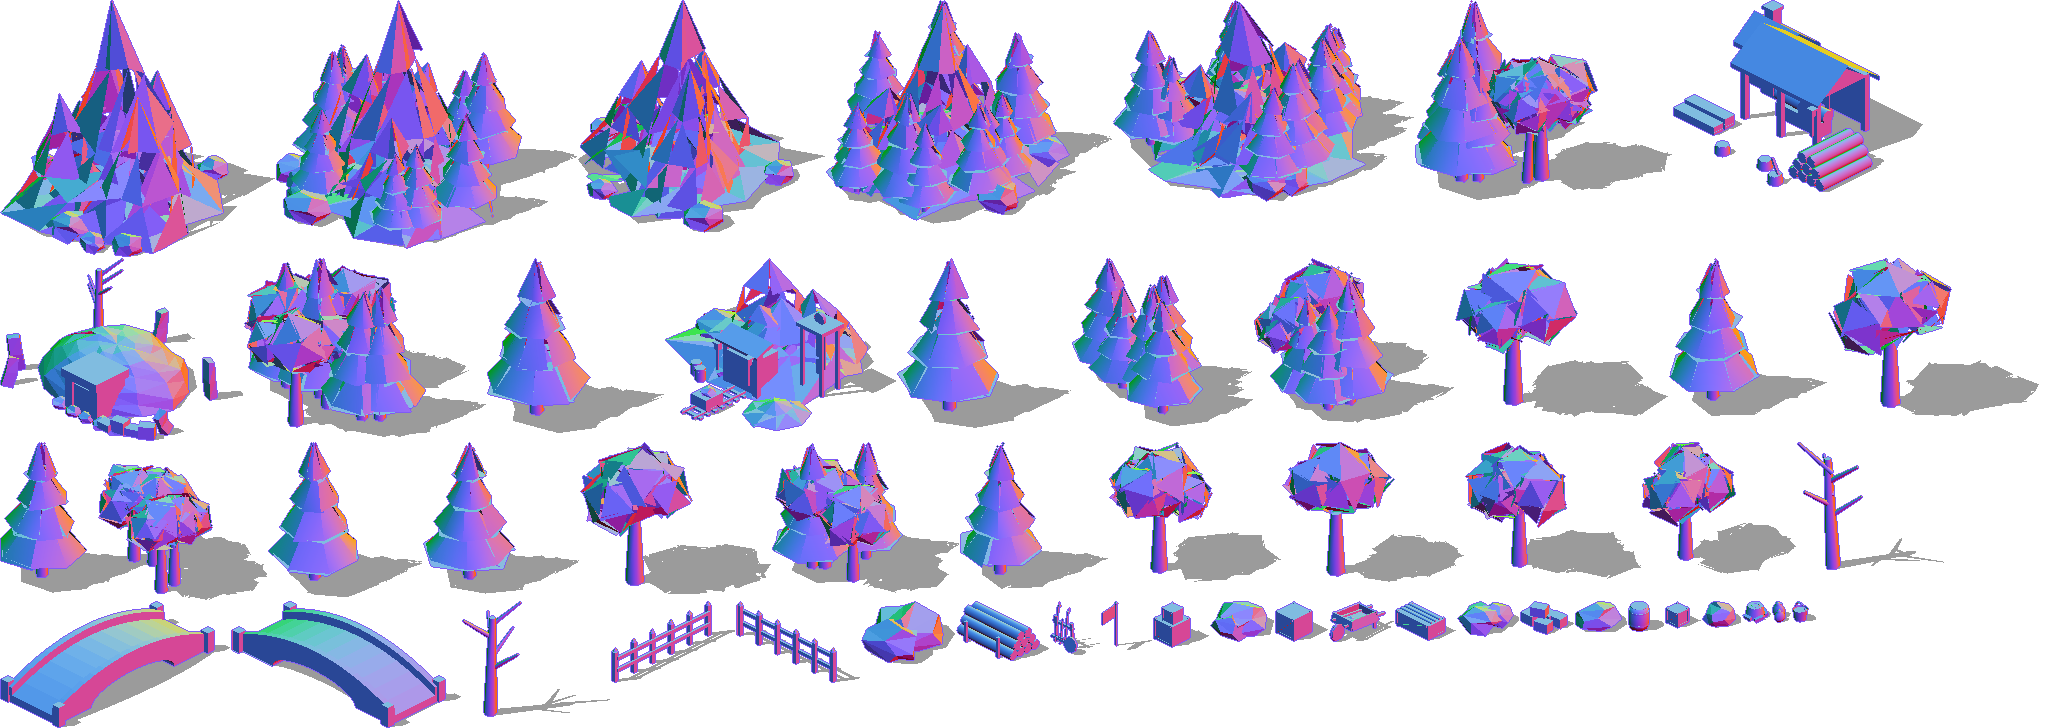
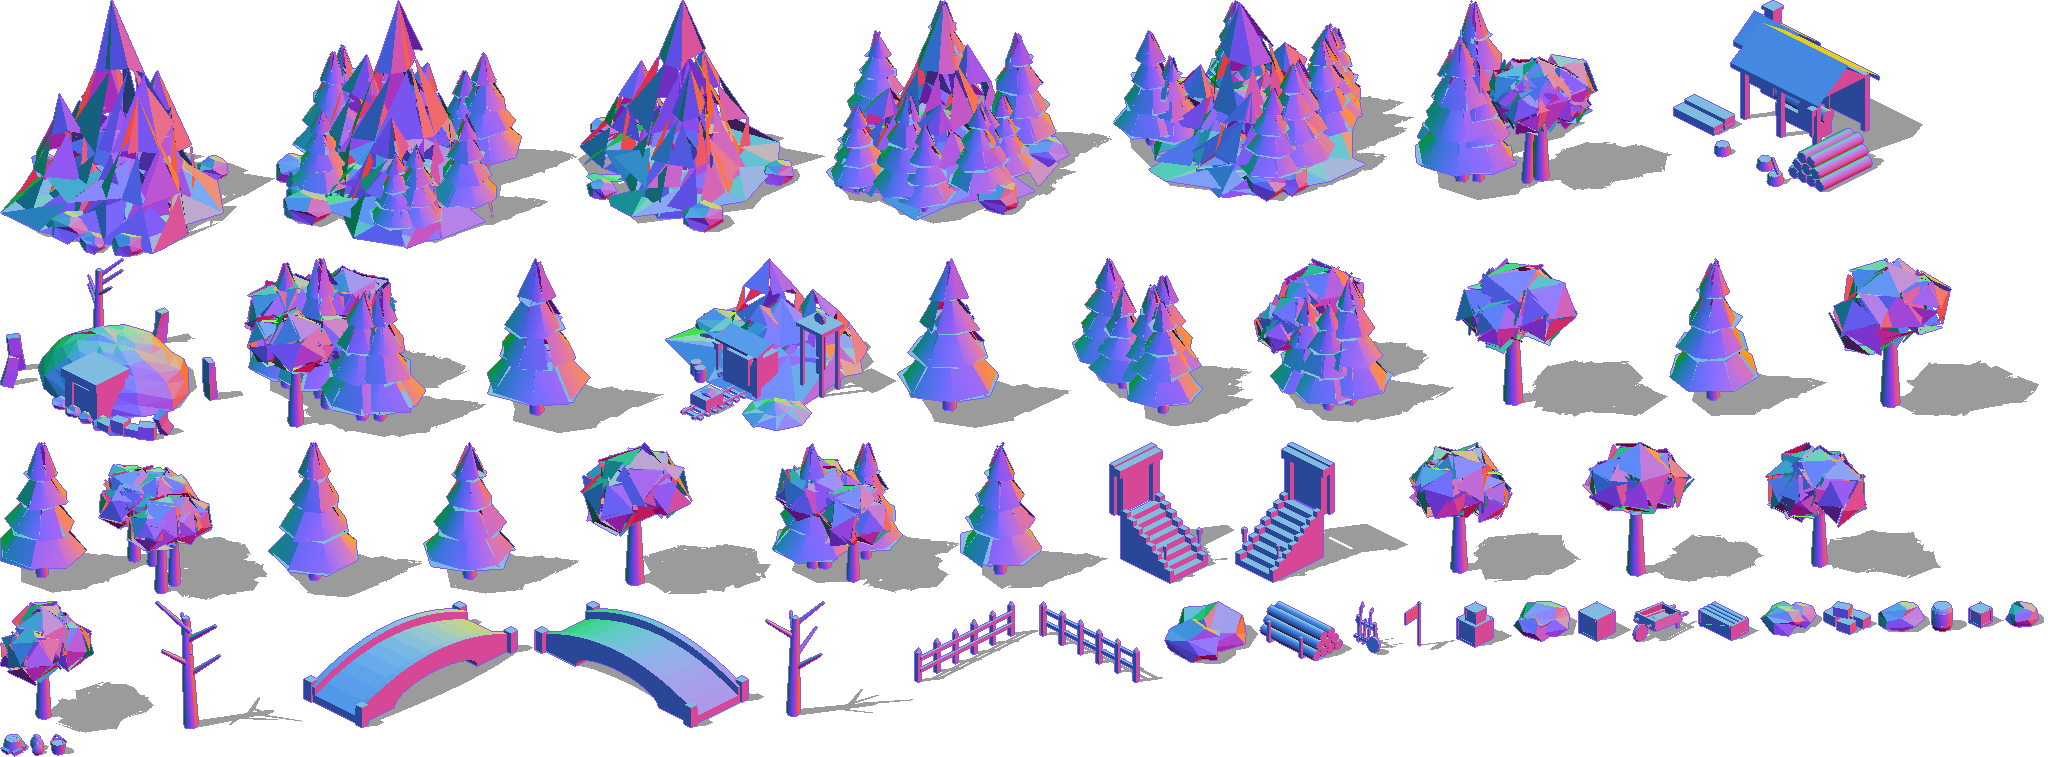
Dungeon: a real stair up at the entrance; bigger arena rooms
- The first floor's way back up is now a stone staircase built against the
  entrance room's north or west wall, climbing to an arched, glowing opening
  with torches. It's our own buildkit 'stairsup', baked in two facings. Walk up
  its bottom steps to return to the Barrows; arriving from the Barrows puts
  you at its foot. The floating exit icon is gone.
- Rooms are arenas for the GDD's room battles: 40-62 tiles across (was 24-43)
  with open shapes (no pinched plus rooms), 6-8 per level on a 320×320 map,
  and corridors 6 wide (was 4).
- Structures now render in dungeons too, with per-structure height.
- GDD §3.1 notes room size and the stair.

Claude-Session: https://claude.ai/code/session_015iJE9saRx1hCYJHRMUYeGn

diff --git a/src/sim/envfoot.js b/src/sim/envfoot.js
@@ -1,4 +1,4 @@
 // envfoot.js — GENERATED by tools/actor-lab/bake-env.cjs. Do not edit.
 // Ground footprint of each baked environment sprite, in tiles relative to its
 // origin: [x0, y0, x1, y1]. Used for collision and placement.
-export const ENV_FOOT = {"pine_1":[-5.46,-5.7,5.31,5.16],"pine_2":[-4.5,-4.8,4.99,4.87],"pine_3":[-5.04,-4.72,4.94,5.15],"pine_4":[-4.7,-4.76,5.18,5.04],"pine_5":[-4.33,-4.33,4.72,4.69],"pine_6":[-5.3,-5.62,5.8,5.55],"oak_1":[-6.11,-7.36,6.14,6.76],"oak_2":[-5.3,-5.13,4.9,6.33],"oak_3":[-4.78,-5.35,3.81,5.83],"oak_4":[-6.79,-6.27,5.48,6.7],"autumn_1":[-5.55,-5.54,5.19,6.4],"autumn_2":[-5.46,-4.76,5.52,5.58],"autumn_3":[-3.81,-5.57,4.15,6.11],"dead_1":[-2.24,-2.81,2.66,2.62],"dead_2":[-2.56,-1.87,2.98,3.05],"grove_1":[-9.33,-9.47,3.42,3.61],"grove_2":[-10.08,-9.35,8.36,9.26],"grove_3":[-8.88,-10.4,9.35,7.65],"grove_4":[-10.19,-7.19,8.42,8.9],"grove_5":[-7.76,-4.44,6.78,8.94],"grove_6":[-9.02,-9.65,7.4,2.07],"bridge_0":[-3.6,-9.7,3.6,9.7],"bridge_90":[-9.7,-3.6,9.7,3.6],"rock_A":[-2.18,-2.03,2.19,2.41],"rock_B":[-2.03,-2.12,2.06,1.97],"rock_C":[-3.06,-3.35,3.32,3.55],"rock_D":[-2.7,-3.56,2.22,2.22],"rock_E":[-3.72,-3.84,4.19,6.22],"mountain_A_grass_trees":[-11.35,-11.48,11.34,11.97],"mountain_B_grass_trees":[-11.71,-13.02,12.8,11.38],"mountain_C_grass_trees":[-14.56,-13.66,14.26,14.25],"mountain_A":[-11.3,-11.74,11.05,10.38],"mountain_B":[-12.23,-11.71,11.72,13.45],"ruin":[-9.37,-9.66,9.14,6.89],"mine_0":[-11.55,-10.95,8.49,11.1],"lumbermill_90":[-10.3,-7.1,9.4,8.9],"barrel":[-0.89,-0.94,0.89,0.94],"crate_A_big":[-1.12,-1.12,1.12,1.19],"crate_A_small":[-0.72,-0.72,0.72,0.79],"crate_B_big":[-1.12,-1.12,1.12,1.19],"crate_long_A":[-2.02,-1.02,2.02,1.09],"sack":[-0.62,-0.49,1.25,1.36],"wheelbarrow":[-1.32,-2.69,1.32,3.23],"weaponrack":[-1.2,-0.19,2.1,0.81],"bucket_water":[-0.65,-0.65,0.65,0.65],"resource_lumber":[-3.33,-1.78,3.33,2.15],"resource_stone":[-1.7,-1.97,1.75,0.83],"flag_red":[-0.16,-0.12,0.16,1.84],"stump":[-1.06,-1.15,1.12,1.1],"fence_0":[-0.25,-6.05,0.3,6.05],"fence_90":[-6.05,-0.3,6.05,0.25],"vale_tavern_1":[-6.2,-8.45,6.1,5.3],"vale_inn_1":[-7.1,-4.4,10.48,5.1],"vale_shop_1":[-4.2,-4.32,5.07,4.2],"vale_temple_1":[-12.5,-4.8,7.99,4.8],"vale_well_1":[-2.1,-1.8,2.1,1.8],"vale_house_1":[-4.7,-4,4.7,4],"vale_house_2":[-4.7,-4,4.7,4],"vale_house_3":[-4.7,-4,4.7,4],"vale_housex_1":[-4,-4.7,4,4.7],"vale_housex_2":[-4,-4.7,4,4.7],"vale_farm_1":[-9.63,-5.7,9.77,7.63],"vale_farmx_1":[-5.7,-9.77,7.63,9.63],"vale_keep_1":[-6.37,-6.45,6.37,6.45],"vale_wall_1":[-11,-1.7,11,2.1],"vale_wally_1":[-1.7,-11,2.1,11],"fens_tavern_1":[-6.2,-8.45,6.1,5.3],"fens_inn_1":[-7.1,-4.4,10.48,5.1],"fens_shop_1":[-4.2,-4.32,5.07,4.2],"fens_temple_1":[-12.5,-4.8,7.99,4.8],"fens_well_1":[-2.1,-1.8,2.1,1.8],"fens_house_1":[-4.7,-4,4.7,4],"fens_house_2":[-4.7,-4,4.7,4],"fens_house_3":[-4.7,-4,4.7,4],"fens_housex_1":[-4,-4.7,4,4.7],"fens_housex_2":[-4,-4.7,4,4.7],"fens_farm_1":[-9.63,-5.7,9.77,7.63],"fens_farmx_1":[-5.7,-9.77,7.63,9.63],"fens_keep_1":[-6.37,-6.45,6.37,6.45],"fens_wall_1":[-11,-1.7,11,2.1],"fens_wally_1":[-1.7,-11,2.1,11],"reach_tavern_1":[-6.2,-8.45,6.1,5.3],"reach_inn_1":[-7.1,-4.4,10.48,5.1],"reach_shop_1":[-4.2,-4.32,5.07,4.2],"reach_temple_1":[-12.5,-4.8,7.99,4.8],"reach_well_1":[-2.1,-1.8,2.1,1.8],"reach_house_1":[-4.7,-4,4.7,4],"reach_house_2":[-4.7,-4,4.7,4],"reach_house_3":[-4.7,-4,4.7,4],"reach_housex_1":[-4,-4.7,4,4.7],"reach_housex_2":[-4,-4.7,4,4.7],"reach_farm_1":[-9.63,-5.7,9.77,7.63],"reach_farmx_1":[-5.7,-9.77,7.63,9.63],"reach_keep_1":[-6.37,-6.45,6.37,6.45],"reach_wall_1":[-11,-1.7,11,2.1],"reach_wally_1":[-1.7,-11,2.1,11],"heights_tavern_1":[-6.2,-8.45,6.1,5.3],"heights_inn_1":[-7.1,-4.4,10.48,5.1],"heights_shop_1":[-4.2,-4.32,5.07,4.2],"heights_temple_1":[-12.5,-4.8,7.99,4.8],"heights_well_1":[-2.1,-1.8,2.1,1.8],"heights_house_1":[-4.7,-4,4.7,4],"heights_house_2":[-4.7,-4,4.7,4],"heights_house_3":[-4.7,-4,4.7,4],"heights_housex_1":[-4,-4.7,4,4.7],"heights_housex_2":[-4,-4.7,4,4.7],"heights_farm_1":[-9.63,-5.7,9.77,7.63],"heights_farmx_1":[-5.7,-9.77,7.63,9.63],"heights_keep_1":[-6.37,-6.45,6.37,6.45],"heights_wall_1":[-11,-1.7,11,2.1],"heights_wally_1":[-1.7,-11,2.1,11]};
+export const ENV_FOOT = {"pine_1":[-5.46,-5.7,5.31,5.16],"pine_2":[-4.5,-4.8,4.99,4.87],"pine_3":[-5.04,-4.72,4.94,5.15],"pine_4":[-4.7,-4.76,5.18,5.04],"pine_5":[-4.33,-4.33,4.72,4.69],"pine_6":[-5.3,-5.62,5.8,5.55],"oak_1":[-6.11,-7.36,6.14,6.76],"oak_2":[-5.3,-5.13,4.9,6.33],"oak_3":[-4.78,-5.35,3.81,5.83],"oak_4":[-6.79,-6.27,5.48,6.7],"autumn_1":[-5.55,-5.54,5.19,6.4],"autumn_2":[-5.46,-4.76,5.52,5.58],"autumn_3":[-3.81,-5.57,4.15,6.11],"dead_1":[-2.24,-2.81,2.66,2.62],"dead_2":[-2.56,-1.87,2.98,3.05],"grove_1":[-9.33,-9.47,3.42,3.61],"grove_2":[-10.08,-9.35,8.36,9.26],"grove_3":[-8.88,-10.4,9.35,7.65],"grove_4":[-10.19,-7.19,8.42,8.9],"grove_5":[-7.76,-4.44,6.78,8.94],"grove_6":[-9.02,-9.65,7.4,2.07],"bridge_0":[-3.6,-9.7,3.6,9.7],"bridge_90":[-9.7,-3.6,9.7,3.6],"rock_A":[-2.18,-2.03,2.19,2.41],"rock_B":[-2.03,-2.12,2.06,1.97],"rock_C":[-3.06,-3.35,3.32,3.55],"rock_D":[-2.7,-3.56,2.22,2.22],"rock_E":[-3.72,-3.84,4.19,6.22],"mountain_A_grass_trees":[-11.35,-11.48,11.34,11.97],"mountain_B_grass_trees":[-11.71,-13.02,12.8,11.38],"mountain_C_grass_trees":[-14.56,-13.66,14.26,14.25],"mountain_A":[-11.3,-11.74,11.05,10.38],"mountain_B":[-12.23,-11.71,11.72,13.45],"ruin":[-9.37,-9.66,9.14,6.89],"mine_0":[-11.55,-10.95,8.49,11.1],"lumbermill_90":[-10.3,-7.1,9.4,8.9],"barrel":[-0.89,-0.94,0.89,0.94],"crate_A_big":[-1.12,-1.12,1.12,1.19],"crate_A_small":[-0.72,-0.72,0.72,0.79],"crate_B_big":[-1.12,-1.12,1.12,1.19],"crate_long_A":[-2.02,-1.02,2.02,1.09],"sack":[-0.62,-0.49,1.25,1.36],"wheelbarrow":[-1.32,-2.69,1.32,3.23],"weaponrack":[-1.2,-0.19,2.1,0.81],"bucket_water":[-0.65,-0.65,0.65,0.65],"resource_lumber":[-3.33,-1.78,3.33,2.15],"resource_stone":[-1.7,-1.97,1.75,0.83],"flag_red":[-0.16,-0.12,0.16,1.84],"stump":[-1.06,-1.15,1.12,1.1],"fence_0":[-0.25,-6.05,0.3,6.05],"fence_90":[-6.05,-0.3,6.05,0.25],"stairsup_0":[-2.6,-4.15,2.6,3.1],"stairsup_90":[-4.15,-2.6,3.1,2.6],"vale_tavern_1":[-6.2,-8.45,6.1,5.3],"vale_inn_1":[-7.1,-4.4,10.48,5.1],"vale_shop_1":[-4.2,-4.32,5.07,4.2],"vale_temple_1":[-12.5,-4.8,7.99,4.8],"vale_well_1":[-2.1,-1.8,2.1,1.8],"vale_house_1":[-4.7,-4,4.7,4],"vale_house_2":[-4.7,-4,4.7,4],"vale_house_3":[-4.7,-4,4.7,4],"vale_housex_1":[-4,-4.7,4,4.7],"vale_housex_2":[-4,-4.7,4,4.7],"vale_farm_1":[-9.63,-5.7,9.77,7.63],"vale_farmx_1":[-5.7,-9.77,7.63,9.63],"vale_keep_1":[-6.37,-6.45,6.37,6.45],"vale_wall_1":[-11,-1.7,11,2.1],"vale_wally_1":[-1.7,-11,2.1,11],"fens_tavern_1":[-6.2,-8.45,6.1,5.3],"fens_inn_1":[-7.1,-4.4,10.48,5.1],"fens_shop_1":[-4.2,-4.32,5.07,4.2],"fens_temple_1":[-12.5,-4.8,7.99,4.8],"fens_well_1":[-2.1,-1.8,2.1,1.8],"fens_house_1":[-4.7,-4,4.7,4],"fens_house_2":[-4.7,-4,4.7,4],"fens_house_3":[-4.7,-4,4.7,4],"fens_housex_1":[-4,-4.7,4,4.7],"fens_housex_2":[-4,-4.7,4,4.7],"fens_farm_1":[-9.63,-5.7,9.77,7.63],"fens_farmx_1":[-5.7,-9.77,7.63,9.63],"fens_keep_1":[-6.37,-6.45,6.37,6.45],"fens_wall_1":[-11,-1.7,11,2.1],"fens_wally_1":[-1.7,-11,2.1,11],"reach_tavern_1":[-6.2,-8.45,6.1,5.3],"reach_inn_1":[-7.1,-4.4,10.48,5.1],"reach_shop_1":[-4.2,-4.32,5.07,4.2],"reach_temple_1":[-12.5,-4.8,7.99,4.8],"reach_well_1":[-2.1,-1.8,2.1,1.8],"reach_house_1":[-4.7,-4,4.7,4],"reach_house_2":[-4.7,-4,4.7,4],"reach_house_3":[-4.7,-4,4.7,4],"reach_housex_1":[-4,-4.7,4,4.7],"reach_housex_2":[-4,-4.7,4,4.7],"reach_farm_1":[-9.63,-5.7,9.77,7.63],"reach_farmx_1":[-5.7,-9.77,7.63,9.63],"reach_keep_1":[-6.37,-6.45,6.37,6.45],"reach_wall_1":[-11,-1.7,11,2.1],"reach_wally_1":[-1.7,-11,2.1,11],"heights_tavern_1":[-6.2,-8.45,6.1,5.3],"heights_inn_1":[-7.1,-4.4,10.48,5.1],"heights_shop_1":[-4.2,-4.32,5.07,4.2],"heights_temple_1":[-12.5,-4.8,7.99,4.8],"heights_well_1":[-2.1,-1.8,2.1,1.8],"heights_house_1":[-4.7,-4,4.7,4],"heights_house_2":[-4.7,-4,4.7,4],"heights_house_3":[-4.7,-4,4.7,4],"heights_housex_1":[-4,-4.7,4,4.7],"heights_housex_2":[-4,-4.7,4,4.7],"heights_farm_1":[-9.63,-5.7,9.77,7.63],"heights_farmx_1":[-5.7,-9.77,7.63,9.63],"heights_keep_1":[-6.37,-6.45,6.37,6.45],"heights_wall_1":[-11,-1.7,11,2.1],"heights_wally_1":[-1.7,-11,2.1,11]};

diff --git a/src/render/renderer.js b/src/render/renderer.js
@@ -270,7 +270,7 @@ export function createRenderer(canvas, sim, input) {
         terrValid = false; outMap = null;
       }).catch(() => envAtlases.delete(name));
   }
-  const wantAtlases = () => { loadAtlas('env'); if (sim.world.kind !== 'dungeon') loadAtlas('town-' + (sim.world.region || 'vale')); };
+  const wantAtlases = () => { loadAtlas('env'); if (sim.world.kind !== 'dungeon') loadAtlas('town-' + (sim.world.region || 'vale')); };   // env carries the dungeon's stair too
   wantAtlases();
   const ecv = document.createElement('canvas'), ectx = ecv.getContext('2d', { willReadFrequently: true });
   function envSprite(id) {
@@ -297,18 +297,20 @@ export function createRenderer(canvas, sim, input) {
   // Composite the scene's structures into the bake: first every ground shadow (only
   // onto ground-level pixels, once), then every sprite with the nearer-wins depth test.
   function structList(bx, by, lights) {
-    const world = sim.world, z = heightAt(world, 0, 0), list = [];
-    if (!envMeta) return list;
+    const world = sim.world, list = [];
+    if (!envMeta || !world.structs) return list;
     for (const st of world.structs) {
       const sp = envSprite(st.id); if (!sp) continue;
+      const z = heightAt(world, Math.floor(st.x), Math.floor(st.y));
       const P = project(st.x, st.y, z), x0 = Math.round(bx + P.sx) - sp.ax, y0 = Math.round(by + P.sy) - sp.ay;
       if (x0 > tbw || y0 > tbh || x0 + sp.w < 0 || y0 + sp.h < 0) continue;
-      list.push({ sp, x0, y0, base: st.x + st.y + z * 0.5, walkOn: st.id.startsWith('bridge') });
+      list.push({ sp, x0, y0, z, base: st.x + st.y + z * 0.5, walkOn: st.id.startsWith('bridge') || st.id.startsWith('stairsup') });
       if (envMeta.sprites[st.id].glow && lights.length < 30) lights.push({ x: st.x, y: st.y, z: z + 3, color: [1.1, 0.72, 0.36] });
     }
     return list;
   }
-  function stampShadow({ sp, x0, y0 }, by, zp, z) {
+  function stampShadow({ sp, x0, y0, z }, by) {
+    const zp = z * ZH;
     for (let yy = 0; yy < sp.h; yy++) {
       const py = y0 + yy; if (py < 0 || py >= tbh) continue;
       const ground = (py - by + zp) / HH + z * 0.5 + 0.35;
@@ -321,7 +323,8 @@ export function createRenderer(canvas, sim, input) {
       }
     }
   }
-  function stampSprite({ sp, x0, y0, base, walkOn }, by, zp, z) {
+  function stampSprite({ sp, x0, y0, base, walkOn, z }, by) {
+    const zp = z * ZH;
     for (let yy = 0; yy < sp.h; yy++) {
       const py = y0 + yy; if (py < 0 || py >= tbh) continue;
       for (let xx = 0; xx < sp.w; xx++) {
@@ -595,11 +598,10 @@ export function createRenderer(canvas, sim, input) {
     }
     if (j.phase === 0) { j.phase = 1; if (performance.now() > deadline) return false; }
     // structures: every ground shadow first, then every sprite (depth-tested), a few per slice
-    if (j.phase === 1) { j.list = world.kind !== 'dungeon' ? structList(bx, by, j.lights) : []; j.k = 0; j.phase = 2; }
-    const z = heightAt(world, 0, 0), zp = z * ZH;
-    while (j.phase === 2 && j.k < j.list.length) { stampShadow(j.list[j.k++], by, zp, z); if (performance.now() > deadline) return false; }
+    if (j.phase === 1) { j.list = structList(bx, by, j.lights); j.k = 0; j.phase = 2; }
+    while (j.phase === 2 && j.k < j.list.length) { stampShadow(j.list[j.k++], by); if (performance.now() > deadline) return false; }
     if (j.phase === 2) { j.phase = 3; j.k = 0; }
-    while (j.phase === 3 && j.k < j.list.length) { stampSprite(j.list[j.k++], by, zp, z); if (performance.now() > deadline) return false; }
+    while (j.phase === 3 && j.k < j.list.length) { stampSprite(j.list[j.k++], by); if (performance.now() > deadline) return false; }
     // thin the hazard pools to a few representatives spread apart, then pool all
     // candidates; render picks the two nearest the hero each frame.
     j.hazards.sort((a, b) => b.s - a.s);

diff --git a/src/sim/world.js b/src/sim/world.js
@@ -56,10 +56,10 @@ export function createWorld(seed, theme, depth = 0) {
   }
   if (level.descentRoom) world.props.set(K(level.descentRoom.cx, level.descentRoom.cy), 'stairs');
   // the first level has a way back up to the overland, beside the entrance
-  if (depth === 0) for (const [dx, dy] of [[3, 0], [0, 3], [-3, 0], [0, -3], [3, 3]]) {
-    const ex = Math.floor(level.spawn.x) + dx, ey = Math.floor(level.spawn.y) + dy;
-    if (place(ex, ey, 'exit')) { world.exitAt = { x: ex + 0.5, y: ey + 0.5 }; break; }
-  }
+  // The first level's way back up: a stone stair built against the entrance room's back
+  // wall (north or west, the walls you see), climbing into it. Walk up its bottom steps to leave.
+  world.structs = [];
+  if (depth === 0 && level.entrance) placeStairsUp(world, level);
 
   // Enemies (POC: deterministic placement, view-only — no AI/combat yet). A few
   // skeletons haunt rooms that aren't the entrance or the descent chamber; count
@@ -80,6 +80,33 @@ export function createWorld(seed, theme, depth = 0) {
 }
 
 const cellAt = (world, x, y) => world.level.cells.get(K(x, y));
+
+// Find a stretch of the entrance room's north (−y) or west (−x) wall with room for the
+// stair (3 wide × 7 deep of plain room floor in front of a standing wall), nearest the
+// room's middle. Places the 'stairsup' structure and the exit trigger at its foot.
+function placeStairsUp(world, level) {
+  const r = level.entrance, cells = level.cells, isFloor = (x, y) => { const c = cells.get(K(x, y)); return c && c.kind === 'floor' && !c.corridor && c.room === r.id; };
+  const isWall = (x, y) => { const c = cells.get(K(x, y)); return c && c.kind === 'wall' && (c.wz ?? WALL_Z) >= WALL_Z - 1; };
+  let best = null;
+  for (let y = r.cy - r.rh; y <= r.cy + r.rh; y++) for (let x = r.cx - r.rw; x <= r.cx + r.rw; x++) {
+    for (const side of ['n', 'w']) {
+      let ok = true;
+      for (let a = -1; a <= 1 && ok; a++) {
+        if (side === 'n') { if (!isWall(x + a, y - 1)) ok = false; for (let d = 0; d < 7 && ok; d++) if (!isFloor(x + a, y + d)) ok = false; }
+        else { if (!isWall(x - 1, y + a)) ok = false; for (let d = 0; d < 7 && ok; d++) if (!isFloor(x + d, y + a)) ok = false; }
+      }
+      if (!ok) continue;
+      const score = Math.abs(x - r.cx) + Math.abs(y - r.cy) + (side === 'n' ? 0 : 0.5);
+      if (!best || score < best.score) best = { x, y, side, score };
+    }
+  }
+  if (!best) return;
+  const { x, y, side } = best;
+  if (side === 'n') { world.structs.push({ id: 'stairsup_0', x: x + 0.5, y: y + 3.1 }); world.exitAt = { x: x + 0.5, y: y + 5.6 }; }
+  else { world.structs.push({ id: 'stairsup_90', x: x + 3.1, y: y + 0.5 }); world.exitAt = { x: x + 5.6, y: y + 0.5 }; }
+  // arrive a few steps out from the foot of the stair, facing into the room
+  world.stairArrive = side === 'n' ? { x: x + 0.5, y: y + 10.5 } : { x: x + 10.5, y: y + 0.5 };
+}
 
 // Elevation: floor platforms sit at FLOOR_Z, walls tower at WALL_Z, the abyss is 0.
 export function heightAt(world, x, y) {

diff --git a/src/sim/level.js b/src/sim/level.js
@@ -25,8 +25,8 @@ export const THEME_KEYS = Object.keys(THEMES);
 
 export const FLOOR_Z = 2;          // platform elevation
 export const WALL_Z = 7;           // wall crown — well above the +1 climb rule
-const W = 200, H = 200;            // level bounds (tiles); rooms live inside a border
-const CORRIDOR_W = 4;              // corridor width (tiles)
+const W = 320, H = 320;            // level bounds (tiles); rooms live inside a border
+const CORRIDOR_W = 6;              // corridor width (tiles) — a party of three walks abreast
 
 const key = (x, y) => x + ',' + y;
 
@@ -46,17 +46,18 @@ function inRoom(shape, dx, dy, rw, rh) {
 export function generateLevel(seed, theme) {
   const th = THEMES[theme] || THEMES.dread;
   const rng = mulberry32(((seed >>> 0) ^ 0x9e3779b9) >>> 0);
-  const shapes = ['rect', 'rect', 'oval', 'diamond', 'plus', 'ell'];
+  const shapes = ['rect', 'rect', 'oval', 'oval', 'diamond', 'ell'];   // open arenas (no pinched 'plus')
   const rooms = [];
-  const want = 6 + Math.floor(rng() * 4);         // 6–9 rooms
+  const want = 6 + Math.floor(rng() * 3);         // 6–8 rooms
   let tries = 0;
-  while (rooms.length < want && tries < 1200) {
+  while (rooms.length < want && tries < 1600) {
     tries++;
-    // half-extents 12–21 (≈24–43 tiles across) — 3×+ the old minimum
-    const rw = 12 + Math.floor(rng() * 10), rh = 12 + Math.floor(rng() * 10);
+    // half-extents 20–31 (≈40–62 tiles across): arenas for room battles — a party of
+    // three against respawning waves needs space to spread, kite and retreat (GDD §3)
+    const rw = 20 + Math.floor(rng() * 12), rh = 20 + Math.floor(rng() * 12);
     const cx = rw + 4 + Math.floor(rng() * (W - 2 * rw - 8));
     const cy = rh + 4 + Math.floor(rng() * (H - 2 * rh - 8));
-    const shape = shapes[Math.floor(rng() * shapes.length)];
+    const shape = rooms.length === 0 ? 'rect' : shapes[Math.floor(rng() * shapes.length)];   // entrance: a plain hall
     // reject if the padded bbox overlaps an existing room (keeps abyss between them)
     if (rooms.some((r) => Math.abs(r.cx - cx) < r.rw + rw + 8 && Math.abs(r.cy - cy) < r.rh + rh + 8)) continue;
     rooms.push({ id: rooms.length, cx, cy, rw, rh, shape });

diff --git a/tools/actor-lab/buildkit.js b/tools/actor-lab/buildkit.js
@@ -672,6 +672,35 @@ Object.assign(TYPES, {
   },
 });
 
+// ── dungeon: the way up — a stone stair built against a back wall, climbing (toward −z)
+// to an arched opening that glows with the light outside, torches either side.
+Object.assign(TYPES, {
+  stairsup(S, g) {
+    const W = 0.36, L = 0.62, N = 8, rise = 0.43, stone = mat(tex('ashlar', '#4c4852', 31)), dark = mat(null, '#221f27');
+    for (let i = 0; i < N; i++) {                          // steps: front (+z) low → back (−z) high
+      const d = L / N, h = rise * (i + 1) / N, z = L / 2 - (i + 0.5) * d;
+      box(W, h, d, stone, 0, 0, z, g);
+      box(W, 0.008, 0.012, mat(null, '#6a6570'), 0, h - 0.004, z + d / 2 - 0.006, g);      // worn nosing, lit edge
+    }
+    // side cheeks: stepped stone walls following the flight
+    for (const sx of [-1, 1]) for (let i = 0; i < N; i++) {
+      const d = L / N, h = rise * (i + 1) / N + 0.06, z = L / 2 - (i + 0.5) * d;
+      box(0.05, h, d, stone, sx * (W / 2 + 0.025), 0, z, g);
+    }
+    // arch at the top: pillars, lintel, and the bright opening beyond
+    const top = rise, zb = -L / 2 - 0.02;
+    for (const sx of [-1, 1]) box(0.07, 0.42, 0.08, stone, sx * (W / 2 + 0.01), top, zb, g);
+    box(W + 0.16, 0.08, 0.09, stone, 0, top + 0.4, zb, g);
+    const glow = new THREE.Mesh(new THREE.BoxGeometry(W - 0.04, 0.38, 0.02), S.m.glass); glow.userData.glow = true; glow.position.set(0, top + 0.19, zb - 0.02); g.add(glow);
+    box(W + 0.16, 0.5, 0.05, dark, 0, top, zb - 0.06, g);                                      // wall face around the arch
+    for (const sx of [-1, 1]) {                                                                 // torches on the cheeks
+      const t = new THREE.Mesh(new THREE.BoxGeometry(0.03, 0.05, 0.03), S.m.glass); t.userData.glow = true;
+      t.position.set(sx * (W / 2 + 0.03), rise * 0.35 + 0.16, L / 2 - 0.08); g.add(t);
+      box(0.015, 0.1, 0.015, S.m.trim, sx * (W / 2 + 0.03), rise * 0.35 + 0.05, L / 2 - 0.08, g);
+    }
+  },
+});
+
 export const BUILD_TYPES = Object.keys(TYPES);
 
 export function makeBuilding(type, style, seed = 1, faceX = false) {

diff --git a/src/sim/core.js b/src/sim/core.js
@@ -87,7 +87,7 @@ export function createSim(seed, theme, { scene = 'dungeon', region = 'vale' } = 
   function travel(to, arrive) {
     curScene = to; state.depth = 0;
     world = buildWorld(0);
-    const a = (world.arrivals && (world.arrivals[arrive] || world.arrivals.default)) || null;
+    const a = (world.arrivals && (world.arrivals[arrive] || world.arrivals.default)) || world.stairArrive || null;
     const p = state.player;
     const s = a && isWalkable(world, a.x, a.y) ? a : findSpawn(world);
     p.x = p.px = s.x; p.y = p.py = s.y; p.moving = false; p.frame = 0; p.frameAcc = 0;
@@ -170,7 +170,7 @@ export function createSim(seed, theme, { scene = 'dungeon', region = 'vale' } = 
     } else { p.frame = 0; p.frameAcc = 0; }
     updateDiscovery();
     if (world.kind !== 'dungeon') { const ex = oExitAt(world, p.x, p.y); if (ex) travel(ex.to, ex.arrive); }
-    else if (world.exitAt && Math.hypot(p.x - world.exitAt.x, p.y - world.exitAt.y) < 1.25) travel('overland', 'barrows');   // step onto the way up
+    else if (world.exitAt && Math.hypot(p.x - world.exitAt.x, p.y - world.exitAt.y) < 1.6) travel('overland', 'barrows');   // walk up the stair to leave
     state.t += TICK_DT;
   }
 

diff --git a/docs/emberfall-gdd.md b/docs/emberfall-gdd.md
@@ -61,8 +61,14 @@ Every site map (the current dungeon levels) is a set of **defined rooms** linked
   the shortest path. Tapping a chest, shrine or the stairs walks there and uses it.
 
 The party follows the leader in formation. **Corridors are always safe**: nothing spawns or
-fights there. The **entrance room** is a safe sanctuary, and the **descent room** holds the
-floor's boss and the stairs down.
+fights there. The **entrance room** is a safe sanctuary. On a site's first floor, a stone
+stair against its back wall leads back up to the surface; walk up it to leave. The
+**descent room** holds the floor's boss and the stairs down.
+
+**Room size.** Rooms are arenas: 40–62 tiles across (about 1.6–2.5 screens wide at the
+current zoom), with open shapes (rect, oval, diamond, L) so a party of three can spread out,
+kite and retreat against waves. Corridors are 6 tiles wide, so the party walks abreast.
+A level has 6–8 rooms.
 
 ### 3.2 The room battle
 - **Entering a room with NPCs starts an autobattle** as soon as the party crosses the doorway.
